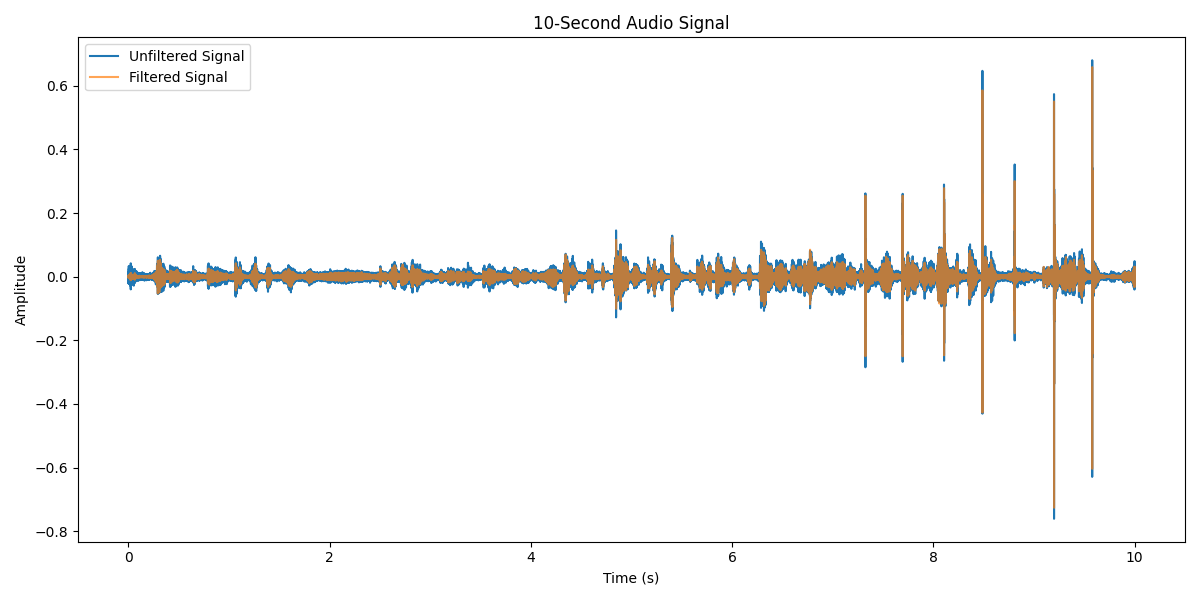
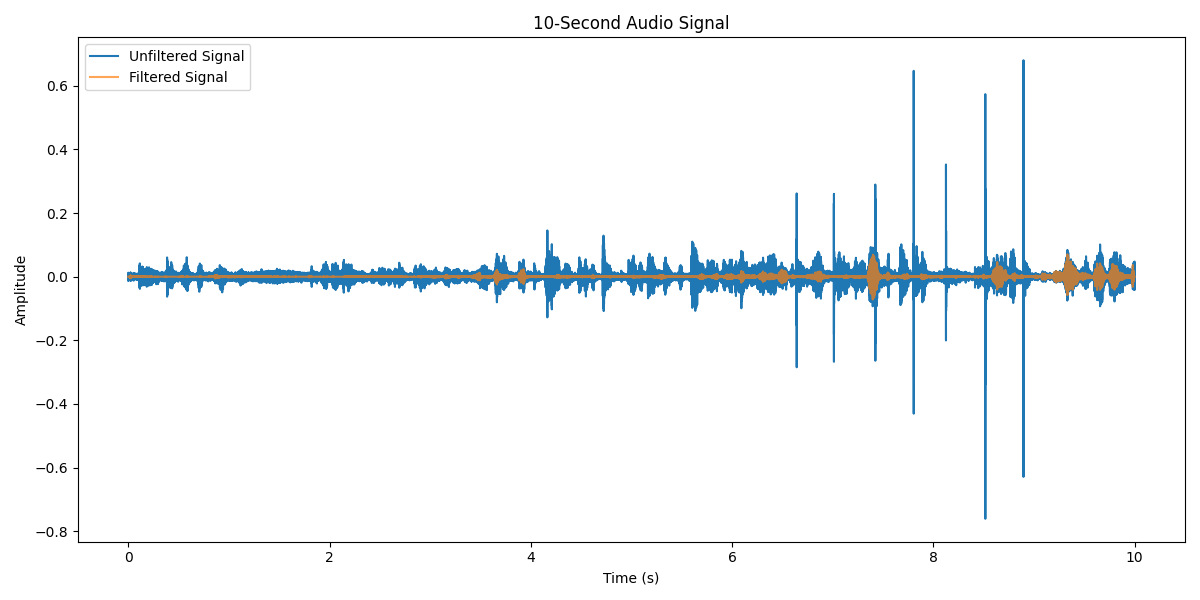
Sound Temporary

Changed region(s): [[0.0925, 0.15, 0.9558, 0.69]]

diff --git a/cssr4africa/cssr_system/sound_detection/src/sound_detection_filter.py b/cssr4africa/cssr_system/sound_detection/src/sound_detection_filter.py
@@ -1,0 +1,238 @@
+import numpy as np
+import onnxruntime as ort
+import torch
+import scipy
+import scipy.signal
+from pathlib import Path
+
+class NSnet2Enhancer(object):
+    """NSnet2 enhancer class."""
+
+    def __init__(self, fs=48000, model_path=None): 
+        """Instantiate NSnet2 given a trained model path."""
+        
+        self.cfg = self._config(fs)
+        self.frameShift = float(self.cfg['winlen']) * float(self.cfg["hopfrac"])
+        self.fs = int(self.cfg['fs'])
+        self.mingain = 10**(self.cfg['mingain'] / 20)
+        self.N_win = int(float(self.cfg['winlen']) * self.fs)
+        if 'nfft' in self.cfg:
+            self.N_fft = int(self.cfg['nfft'])
+        else:
+            self.N_fft = self.N_win
+        self.N_hop = int(self.N_fft * float(self.cfg["hopfrac"]))
+
+        """load onnx model"""
+        self.ort = ort.InferenceSession(model_path)
+        self.dtype = np.float32
+        self.win = np.sqrt(scipy.signal.windows.hann(self.N_win, sym=False))
+        self.win_buf = torch.from_numpy(self.win).float()
+        L = len(self.win)
+        awin = np.zeros_like(self.win)
+        for k in range(0, self.N_hop):
+            idx = range(k, L, self.N_hop)
+            H = self.win[idx]
+            awin[idx] = np.linalg.pinv(H[:, np.newaxis])
+        self.awin = torch.from_numpy(awin).float()
+
+    def _config(self, fs):
+        
+        cfg = {
+            'winlen': 0.02,
+            'hopfrac': 0.5,
+            'fs': fs,
+            'mingain': -80,
+            'feattype': 'LogPow',
+            'nfft': 1024
+        }
+
+        return cfg
+
+    def enhance(self, x):
+        
+        """Obtain the estimated filter"""
+        onnx_inputs = {self.ort.get_inputs()[0].name: x.astype(self.dtype)}
+        out = self.ort.run(None, onnx_inputs)[0][0]
+        return out
+
+    def enhance_48khz(self, x):
+       
+        """Run model on single sequence"""
+        if len(x.shape) < 2:
+            x = torch.from_numpy(np.expand_dims(x, 0)).float()
+        else:
+            x = x.transpose()
+
+        sig_framed = torch.nn.functional.conv1d(x.unsqueeze(1), weight=torch.diag(self.win_buf).unsqueeze(1), stride=self.N_hop).permute(0, 2, 1).contiguous()
+        spec = torch.fft.rfft(sig_framed, n=self.N_fft)
+        spec = torch.stack((spec.real, spec.imag), dim=-1)
+        feat = torch.log10(torch.sum(spec**2, dim=-1).clamp_min(1e-12))
+        onnx_inputs = {self.ort.get_inputs()[0].name: feat.numpy().astype(self.dtype)}
+        out = self.ort.run(None, onnx_inputs)[0]
+        out = torch.from_numpy(out).float()
+        out_spec = out.unsqueeze(3) * spec
+        out_spec_restacked = torch.complex(out_spec[:, :, :, 0], out_spec[:, :, :, 1]).contiguous()
+        x_framed = torch.fft.irfft(out_spec_restacked, n=self.N_fft)[:, :, 0:self.N_win]
+        # overlapp-add using conv_transpose
+        sig = torch.nn.functional.conv_transpose1d(x_framed.permute(0, 2, 1), weight=torch.diag(self.awin).unsqueeze(1), stride=self.N_hop).squeeze(1).contiguous()
+        return sig[0]
+
+    def __call__(self, sigIn, inFs):
+        
+        """Enhance a single Audio signal."""
+        assert inFs in (16000, 48000), "Inconsistent sampling rate!"
+
+        if inFs == 48000:
+            sigOut = self.enhance_48khz(sigIn)
+            # convert to numpy
+            sigOut = sigOut.numpy()
+            return sigOut
+
+        inputSpec = self.calcSpec(sigIn, self.cfg)
+        inputFeature = self.calcFeat(inputSpec, self.cfg)
+        inputFeature = np.expand_dims(np.transpose(inputFeature), axis=0)
+
+        # Obtain network output
+        out = self.enhance(inputFeature)
+
+        # limit suppression gain
+        Gain = np.transpose(out)
+        Gain = np.clip(Gain, a_min=self.mingain, a_max=1.0)
+        outSpec = inputSpec * Gain
+
+        # go back to time domain
+        sigOut = self.spec2sig(outSpec, self.cfg)
+        return sigOut
+
+    def calcFeat(self, Spec, cfg):
+        
+        """compute spectral features"""
+        if cfg['feattype'] == "MagSpec":
+            inpFeat = np.abs(Spec)
+
+        elif cfg['feattype'] == "LogPow":
+            pmin = 10**(-12)
+            powSpec = np.abs(Spec)**2
+            inpFeat = np.log10(np.maximum(powSpec, pmin))
+
+        else:
+            raise ValueError('Feature not implemented.')
+
+        return inpFeat
+
+    def calcSpec(self, y, params, channel=None):
+        
+        """compute complex spectrum from audio file"""
+        fs = int(params["fs"])
+
+        if channel is not None and (len(y.shape) > 1):
+            # use only single channel
+            y = y[:, channel]
+
+        # STFT parameters
+        N_win = int(float(params["winlen"]) * fs)
+        if 'nfft' in params:
+            N_fft = int(params['nfft'])
+        else:
+            N_fft = int(float(params['winlen']) * fs)
+        N_hop = int(N_win * float(params["hopfrac"]))
+        win = np.sqrt(np.hanning(N_win))
+
+        Y = self.stft(y, N_fft, win, N_hop)
+
+        return Y
+
+    def spec2sig(self, Spec, params):
+       
+        """convert spectrum to time signal"""
+        # STFT parameters
+        fs = int(params["fs"])
+        N_win = int(float(params["winlen"]) * fs)
+        if 'nfft' in params:
+            N_fft = int(params['nfft'])
+        else:
+            N_fft = int(float(params['winlen']) * fs)
+        N_hop = int(N_win * float(params["hopfrac"]))
+        win = np.sqrt(np.hanning(N_win))
+
+        x = self.istft(Spec, N_fft, win, N_hop)
+
+        return x
+
+    def stft(self, x, N_fft, win, N_hop, nodelay=True):
+        
+        """
+        short-time Fourier transform
+        x           time domain signal [samples x channels]
+        N_fft       FFT size (samples)
+        win         window,  len(win) <= N_fft
+        N_hop       hop size (samples)
+        nodelay     [True,False]: do not introduce delay (visible windowing effects in first frames)
+        """
+        # get lengths
+        if x.ndim == 1:
+            x = x[:, np.newaxis]
+        Nx = x.shape[0]
+        M = x.shape[1]
+        specsize = int(N_fft / 2 + 1)
+        N_win = len(win)
+        N_frames = int(np.ceil((Nx + N_win - N_hop) / N_hop))
+        Nx = N_frames * N_hop  # padded length
+        x = np.vstack([x, np.zeros((Nx - len(x), M))])
+
+        # init
+        X_spec = np.zeros((specsize, N_frames, M), dtype=complex)
+        win_M = np.outer(win, np.ones((1, M)))
+        x_frame = np.zeros((N_win, M))
+        for nn in range(0, N_frames):
+            idx = int(nn * N_hop)
+            x_frame = np.vstack((x_frame[N_hop:, :], x[idx:idx + N_hop, :]))
+            x_win = win_M * x_frame
+            X = np.fft.rfft(x_win, N_fft, axis=0)
+            X_spec[:, nn, :] = X
+
+        if nodelay:
+            delay = int(N_win / N_hop - 1)
+            X_spec = X_spec[:, delay:, :]
+
+        if M == 1:
+            X_spec = np.squeeze(X_spec)
+
+        return X_spec
+
+    def istft(self, X, N_fft, win, N_hop):
+        
+        """
+        inverse short-time Fourier transform
+        X           Spectra [frequency x frames x channels]
+        N_fft       FFT size (samples)
+        win         window,  len(win) <= N_fft
+        N_hop       hop size (samples)
+        """
+        
+        # get lengths
+        specsize = X.shape[0]
+        N_frames = X.shape[1]
+        if X.ndim < 3:
+            X = X[:, :, np.newaxis]
+        M = X.shape[2]
+        N_win = len(win)
+
+        # init
+        Nx = N_hop * (N_frames - 1) + N_win
+        win_M = np.outer(win, np.ones((1, M)))
+        x = np.zeros((Nx, M))
+
+        for nn in range(0, N_frames):
+            X_frame = np.squeeze(X[:, nn, :])
+            x_win = np.fft.irfft(X_frame, N_fft, axis=0)
+            x_win = x_win.reshape(N_fft, M)
+            x_win = win_M * x_win[0:N_win, :]
+            idx1 = int(nn * N_hop)
+            idx2 = int(idx1 + N_win)
+            x[idx1:idx2, :] = x_win + x[idx1:idx2, :]
+
+        if M == 1:
+            x = np.squeeze(x)
+
+        return x

diff --git a/cssr4africa/cssr_system/sound_detection/src/sound_detection_implementation.py b/cssr4africa/cssr_system/sound_detection/src/sound_detection_implementation.py
@@ -26,6 +26,7 @@ import numpy as np
 import matplotlib
 matplotlib.use('Agg')
 import matplotlib.pyplot as plt
+from sound_detection_filter import NSnet2Enhancer
 from sound_detection.msg import sound_detection
 from threading import Lock
 from std_msgs.msg import Float32MultiArray
@@ -64,6 +65,11 @@ class SoundDetectionNode:
             rospy.logerr("Configuration not found or missing 'intensity_threshold'.")
             raise ValueError("Missing configuration data.")
         self.intensity_threshold = config.get('intensity_threshold', 3.9e-3)
+
+        rospack = rospkg.RosPack()
+        model_path = rospack.get_path('sound_detection') + '/models/sound_detection_nsnet2-20ms-48k.onnx'
+        
+        self.enhancer = NSnet2Enhancer(fs=self.frequency_sample, model_path=model_path)
 
         # Initialize VAD with aggressiveness mode 3
         self.vad = webrtcvad.Vad(3)
@@ -135,15 +141,16 @@ class SoundDetectionNode:
         return recovered_signal
 
     def apply_bandpass_and_spectral_subtraction(self, data, fs):
-        lowcut = 300.0
-        highcut = 3400.0
-        nyq = 0.5 * fs
-        low = lowcut / nyq
-        high = highcut / nyq
-        b, a = signal.butter(N=6, Wn=[low, high], btype='bandpass')
-        filtered_signal = signal.lfilter(b, a, data)
-        processed_signal = self.spectral_subtraction(data, fs)
-        return processed_signal
+        # lowcut = 300.0
+        # highcut = 3400.0
+        # nyq = 0.5 * fs
+        # low = lowcut / nyq
+        # high = highcut / nyq
+        # b, a = signal.butter(N=6, Wn=[low, high], btype='bandpass')
+        # filtered_signal = signal.lfilter(b, a, data)
+        outSig = self.enhancer(data, fs)
+        # processed_signal = self.spectral_subtraction(data, fs)
+        return outSig
 
     def audio_callback(self, msg):
         try:
